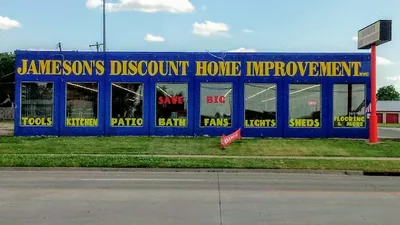
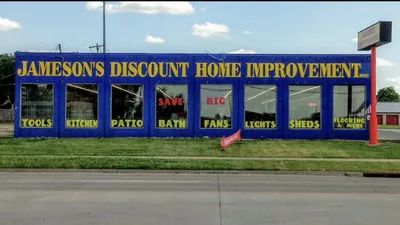
Meta pixel support, and the real Midwest City storefront
Pixel. Same opt-in shape as gtag: pixel="1234567890123456", or a dict
with an event to fire alongside PageView. Emitted only on pages that ask
for it, with Meta's <noscript> fallback included. Verified isolated —
present on a test campaign page, absent from all 15 real pages, and no
page carries one by default.

On whether it is needed at all, since GA4 came up: they are not
alternatives and NOTES.md now says so. GA4 does capture every traffic
source and is sufficient for "where did visitors come from" — Facebook,
Google organic, an AI assistant, direct. What GA4 cannot do is talk back
to Meta. The pixel exists to send conversion signal into Meta's ad
auction so delivery optimises, and to build retargeting audiences; GA4
and Google's tags have no path into that system. So: no Meta ads
running, no pixel, because an idle pixel is a third-party script and a
consent liability for nothing. Meta ads running, add it to the pages in
that campaign's path.

Storefront photo. The Midwest City original arrived at 1206x677 instead
of the 600x338 screenshot, and prep_photos.py add over the same name was
the entire job — no build.py edit, since PHOTOS already referenced it.
It now produces the @800 derivative it could not manage before, so the
srcset is a full 400/800/1200 ladder. The phone file got smaller as
well, 17 KB down to 15 KB, because the resize starts from real detail
rather than an already-compressed thumbnail.
[…]

diff --git a/build.py b/build.py
@@ -796,6 +796,8 @@ TRUST = [
 #                  ["Supporting detail."])],
 #       faq=[("A question?", "An answer.")],
 #       gtag=dict(ids=["AW-1234567890"], send_to="AW-1234567890/AbC_dEfGhIjK"),
+#       pixel=dict(id="1234567890123456", event="Lead"),   # Meta, only while
+#                          # Meta ads are running — see NOTES.md
 #       noindex=False,     # True for a paid lander you don't want in search
 #       nav="",            # leave empty: campaign pages stay out of the nav
 #     ),
@@ -1346,6 +1348,42 @@ def gtag_block(g):
             "\n  function gtag(){dataLayer.push(arguments);}"
             "\n  gtag('js', new Date());"
             f"\n  {configs}{fire}\n</script>")
+
+
+def pixel_block(px):
+    """Meta pixel for one page only, same opt-in shape as gtag.
+
+    GA4 and the Meta pixel are not alternatives to each other. GA4 measures
+    traffic and attributes the source of it, across every channel, and it is the
+    right tool for "where did visitors come from". It cannot feed Meta's ad
+    auction. The pixel exists to send conversion signal back to Meta so delivery
+    optimises and a retargeting audience can be built. Run the pixel only while
+    Meta ads are actually running; there is nothing to optimise otherwise.
+
+        pixel="1234567890123456"
+        pixel=dict(id="1234567890123456", event="Lead")   # default is PageView
+
+    <noscript> fallback included, per Meta's own install snippet.
+    """
+    if not px:
+        return ""
+    if isinstance(px, str):
+        px = {"id": px}
+    pid = px.get("id")
+    if not pid:
+        return ""
+    ev = px.get("event")
+    extra = f"\n  fbq('track', '{ev}');" if ev and ev != "PageView" else ""
+    return (
+        "\n<script>\n"
+        "  !function(f,b,e,v,n,t,s){if(f.fbq)return;n=f.fbq=function(){n.callMethod?\n"
+        "  n.callMethod.apply(n,arguments):n.queue.push(arguments)};if(!f._fbq)f._fbq=n;\n"
+        "  n.push=n;n.loaded=!0;n.version='2.0';n.queue=[];t=b.createElement(e);t.async=!0;\n"
+        "  t.src=v;s=b.getElementsByTagName(e)[0];s.parentNode.insertBefore(t,s)}(window,\n"
+        "  document,'script','https://connect.facebook.net/en_US/fbevents.js');\n"
+        f"  fbq('init', '{pid}');\n  fbq('track', 'PageView');{extra}\n</script>\n"
+        f'<noscript><img height="1" width="1" style="display:none" alt=""\n'
+        f'  src="https://www.facebook.com/tr?id={pid}&ev=PageView&noscript=1"></noscript>')
 
 
 def anchor(text):
@@ -2670,7 +2708,7 @@ def full_page(p, body, L):
 <title>{p['title']}</title>
 <meta name="description" content="{strip(p['desc'])}">
 <link rel="canonical" href="{url}">
-<meta name="robots" content="{'noindex,follow' if p.get('noindex') else 'index,follow'}">{gtag_block(p.get('gtag'))}
+<meta name="robots" content="{'noindex,follow' if p.get('noindex') else 'index,follow'}">{gtag_block(p.get('gtag'))}{pixel_block(p.get('pixel'))}
 <meta property="og:type" content="{'website' if p['slug']=='' else 'article'}">
 <meta property="og:title" content="{strip(p['title'])}">
 <meta property="og:description" content="{strip(p['desc'])}">

diff --git a/NOTES.md b/NOTES.md
@@ -74,7 +74,11 @@ no-srcset path are both correct and CI still needs no image library.
 Source resolution is the one thing the tool can't fix. `storefront-south-okc`
 (188×314) and `ceiling-fans-aisle` (188×189) came in as thumbnails and look soft
 on a high-DPI phone. If full-size originals ever turn up, `prep_photos.py add`
-over the same name is the whole job.
+over the same name is the whole job — that is exactly how
+`storefront-midwest-city` was fixed in Aug 2026, going from a 600×338 screenshot
+to a 1206×677 original. It gained an `@800` derivative it could not previously
+produce, and the phone file got *smaller* (17 KB → 15 KB) because the resize now
+starts from real detail instead of an already-compressed thumbnail.
 
 The Wix CDN resize transforms do work (`/v1/fill/w_800,h_600,q_80/` appended to
 a media URL) if this is ever reversed.
@@ -257,6 +261,34 @@ CAMPAIGN_PAGES = [dict(
 measurement with no conversion event. The tag is emitted **only** on pages that
 ask for it. The site carries no analytics by default and that is on purpose:
 nothing to consent to, nothing blocking first paint.
+
+### GA4 vs the Meta pixel — they are not alternatives
+
+GA4 does capture every traffic source, so as *measurement* it is the right and
+sufficient tool: it will tell you a visitor arrived from Facebook, from Google
+organic, from an AI assistant, or direct. Nothing else is needed to answer
+"where is traffic coming from".
+
+What GA4 cannot do is talk back to Meta. The pixel exists to send conversion
+signal into Meta's ad auction so delivery optimises toward people who convert,
+and to build retargeting audiences. GA4 has no path into that system, and
+Google's own tags have no path into it either.
+
+So the rule is simple:
+
+- **Not running Meta ads?** No pixel. GA4 already tells you what Facebook
+  traffic did, and an unused pixel is a third-party script and a consent
+  liability for nothing.
+- **Running Meta ads?** Add `pixel=` to the pages in that campaign's path.
+  Delivery optimisation is the entire reason, and it needs the signal.
+
+```python
+pixel="1234567890123456"
+pixel=dict(id="1234567890123456", event="Lead")   # PageView always fires too
+```
+
+Same opt-in shape as `gtag`, same isolation — emitted only on pages that ask.
+Meta's `<noscript>` fallback pixel is included.
 
 The IDs are written into public page source, so only ever put real measurement
 IDs in that field. This repo is public.
